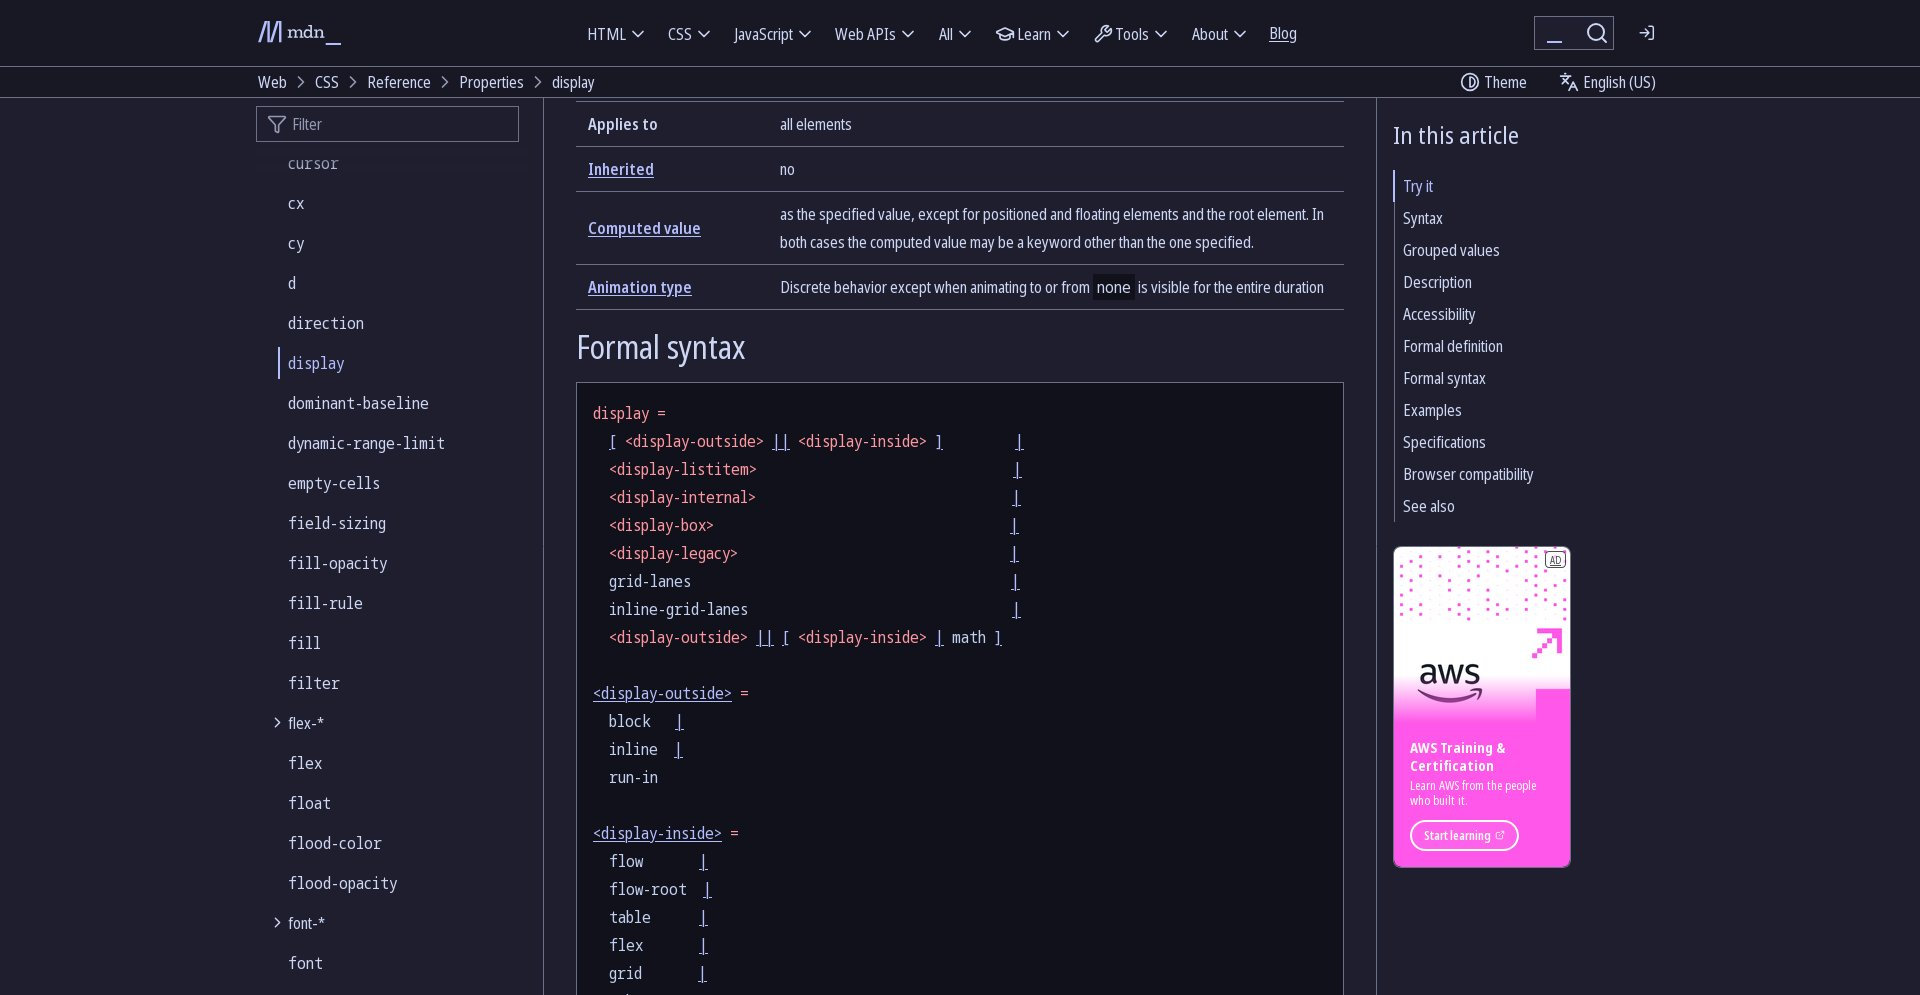
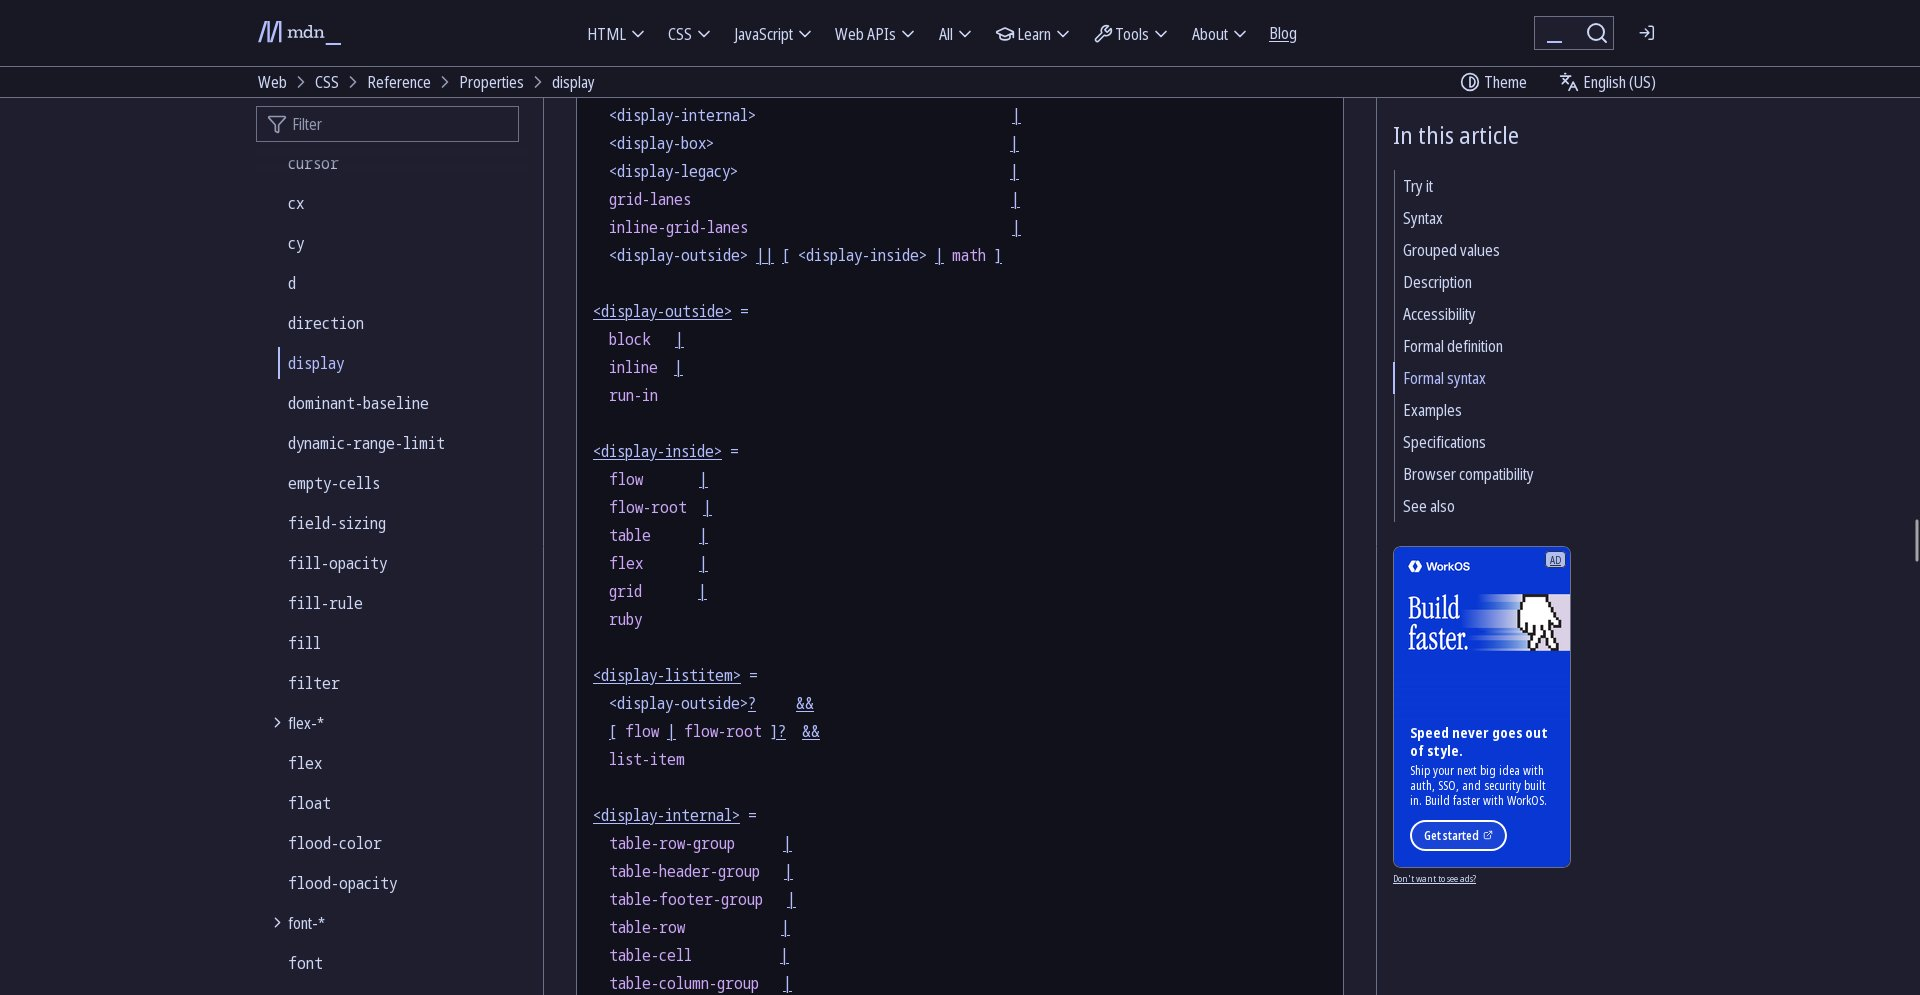
MDN: the theme's syntax colours inside code examples, via @shadow
A production-style revise task; the agent found @shadow through the
brief and recoloured CodeMirror's editors (in shadow roots), the static
examples and the formal syntax. Its notes, service.toml pages and
previews are updated; the run is in examples/DOGFOODING.md.

Claude-Session: https://claude.ai/code/session_01D67T8JeLKWqA31wwVHuFdE

Changed region(s): [[0.2812, 0.0935, 0.6875, 0.997], [0.7188, 0.5296, 0.8438, 0.8724]]

diff --git a/examples/owned/services/mdn/tiled/syntax.user.css b/examples/owned/services/mdn/tiled/syntax.user.css
@@ -1,0 +1,181 @@
+/* ==UserStyle==
+@name           MDN syntax colours (tiled)
+@namespace      atelier
+@version        0.1.0
+@description    Catppuccin Mocha syntax highlighting for MDN's code: static code examples, the formal syntax, and the editors in interactive examples
+==/UserStyle== */
+
+/* MDN highlights code two ways:
+
+   - Prism, for static code examples (<mdn-code-example>, open shadow root)
+     and the formal syntax (pre.css-formal-syntax, light DOM). Both use the
+     same .token.* rules, each colour light-dark(<light>, <dark>). The
+     --tl-syn-* tokens below keep that shape, so MDN's Light setting keeps
+     its colours; they're set on :root and inherit into the shadow roots.
+
+   - CodeMirror 6 with the One Dark theme, for the editors in interactive
+     examples (<mdn-play-editor>, nested in <interactive-example>'s shadow
+     root). One Dark is used whatever the colour scheme, so these are plain
+     Mocha colours. CodeMirror's classes are generated (ͼp, ͼq ...): each is
+     one of One Dark's colours, in the order its highlight style defines
+     them, so they're stable while MDN ships the same CodeMirror bundle. If
+     they shift, the editors show the wrong Mocha colours rather than One
+     Dark's; the editor's background and plain text (.cm-editor, .cm-content)
+     don't depend on them. */
+
+@-moz-document domain("developer.mozilla.org") {
+  html:root {
+    --tl-syn-comment: light-dark(#51565d, #9399b2);
+    --tl-syn-punctuation: light-dark(#51565d, #9399b2);
+    --tl-syn-keyword: light-dark(#0069c2, #cba6f7);
+    --tl-syn-atrule: light-dark(#007936, #cba6f7);
+    --tl-syn-string: light-dark(#007936, #a6e3a1);
+    --tl-syn-template-string: light-dark(#872bff, #a6e3a1);
+    --tl-syn-number: light-dark(#007936, #fab387);
+    --tl-syn-tag: light-dark(#007936, #89b4fa);
+    --tl-syn-attr-name: light-dark(#d30038, #f9e2af);
+    --tl-syn-property: light-dark(#d30038, #b4befe);
+    --tl-syn-function: light-dark(#d30038, #89b4fa);
+    --tl-syn-class-name: light-dark(#d30038, #f9e2af);
+    --tl-syn-builtin: light-dark(#872bff, #f38ba8);
+    --tl-syn-selector: light-dark(#872bff, #89b4fa);
+    --tl-syn-inserted: light-dark(#872bff, #a6e3a1);
+    --tl-syn-deleted: light-dark(#007936, #f38ba8);
+    /* Tokens MDN leaves in the text colour. */
+    --tl-syn-operator: light-dark(currentcolor, #89dceb);
+    --tl-syn-regex: light-dark(currentcolor, #f5c2e7);
+    --tl-syn-important: light-dark(currentcolor, #cba6f7);
+  }
+
+  /* ---- Prism, light DOM (the formal syntax, older pages) ------------- */
+
+  html :is(.code-example, .css-formal-syntax) {
+    & :is(.token.comment, .token.prolog, .token.doctype, .token.cdata) { color: var(--tl-syn-comment); }
+    & .token.punctuation { color: var(--tl-syn-punctuation); }
+    & .token.keyword { color: var(--tl-syn-keyword); }
+    & .token.atrule { color: var(--tl-syn-atrule); }
+    & :is(.token.string, .token.attr-value, .token.char, .token.url) { color: var(--tl-syn-string); }
+    & .token.template-string > .token.string { color: var(--tl-syn-template-string); }
+    & :is(.token.number, .token.boolean, .token.constant, .token.symbol) { color: var(--tl-syn-number); }
+    & .token.tag { color: var(--tl-syn-tag); }
+    & .token.attr-name { color: var(--tl-syn-attr-name); }
+    & .token.property { color: var(--tl-syn-property); }
+    & .token.function { color: var(--tl-syn-function); }
+    & .token.class-name { color: var(--tl-syn-class-name); }
+    & .token.builtin { color: var(--tl-syn-builtin); }
+    & .token.selector { color: var(--tl-syn-selector); }
+    & .token.inserted { color: var(--tl-syn-inserted); }
+    & .token.deleted { color: var(--tl-syn-deleted); }
+    & .token.operator { color: var(--tl-syn-operator); }
+    & .token.regex { color: var(--tl-syn-regex); }
+    & .token.important { color: var(--tl-syn-important); }
+  }
+
+  /* ---- Prism, static code examples ----------------------------------- */
+
+  /* :host raises these above MDN's :is(.code-example, ...) .token.x. */
+  @shadow mdn-code-example {
+    /* The pane's frame, square (MDN hard-codes 0.25rem). */
+    :host .code-example {
+      border-radius: 0;
+    }
+    :host .code-example {
+      & :is(.token.comment, .token.prolog, .token.doctype, .token.cdata) { color: var(--tl-syn-comment); }
+      & .token.punctuation { color: var(--tl-syn-punctuation); }
+      & .token.keyword { color: var(--tl-syn-keyword); }
+      & .token.atrule { color: var(--tl-syn-atrule); }
+      & :is(.token.string, .token.attr-value, .token.char, .token.url) { color: var(--tl-syn-string); }
+      & .token.template-string > .token.string { color: var(--tl-syn-template-string); }
+      & :is(.token.number, .token.boolean, .token.constant, .token.symbol) { color: var(--tl-syn-number); }
+      & .token.tag { color: var(--tl-syn-tag); }
+      & .token.attr-name { color: var(--tl-syn-attr-name); }
+      & .token.property { color: var(--tl-syn-property); }
+      & .token.function { color: var(--tl-syn-function); }
+      & .token.class-name { color: var(--tl-syn-class-name); }
+      & .token.builtin { color: var(--tl-syn-builtin); }
+      & .token.selector { color: var(--tl-syn-selector); }
+      & .token.inserted { color: var(--tl-syn-inserted); }
+      & .token.deleted { color: var(--tl-syn-deleted); }
+      & .token.operator { color: var(--tl-syn-operator); }
+      & .token.regex { color: var(--tl-syn-regex); }
+      & .token.important { color: var(--tl-syn-important); }
+    }
+  }
+
+  /* ---- CodeMirror, interactive example editors ----------------------- */
+
+  @shadow mdn-play-editor {
+    /* The editor is a crust pane like every other code block; plain text
+       in the text colour. */
+    :host .cm-editor {
+      color: #cdd6f4;
+      background-color: #11111b;
+    }
+    :host .cm-editor .cm-gutters {
+      color: #6c7086;
+      background-color: #11111b;
+    }
+    :host .cm-editor .cm-activeLineGutter {
+      background-color: #181825;
+    }
+    :host .cm-editor .cm-activeLine {
+      background-color: rgb(49 50 68 / 0.5);
+    }
+    :host .cm-editor .cm-cursor {
+      border-left-color: #f5e0dc;
+    }
+    :host .cm-editor .cm-scroller .cm-selectionLayer .cm-selectionBackground,
+    :host .cm-editor .cm-content ::selection {
+      background-color: #353749;
+    }
+    :host .cm-editor.cm-focused :is(.cm-matchingBracket, .cm-nonmatchingBracket) {
+      background-color: #45475a;
+    }
+    :host .cm-editor .cm-searchMatch {
+      background-color: rgb(249 226 175 / 0.28);
+      outline: none;
+    }
+    /* Autocomplete and hover tooltips: popovers, square, surface0 with a
+       surface1 border. */
+    :host .cm-editor .cm-tooltip {
+      color: #cdd6f4;
+      background-color: #313244;
+      border: 1px solid #45475a;
+      border-radius: 0;
+    }
+    :host .cm-editor .cm-tooltip-autocomplete > ul > li[aria-selected] {
+      color: #cdd6f4;
+      background-color: #45475a;
+    }
+
+    /* One Dark's highlight classes, each mapped by its role to Catppuccin
+       Mocha's. One Dark gives one colour to several roles, so these can't
+       be told apart further: */
+    /* keywords */
+    :host .ͼp { color: #cba6f7; }
+    /* names: properties, attributes, variables */
+    :host .ͼq { color: #b4befe; }
+    /* function names */
+    :host .ͼr { color: #89b4fa; }
+    /* colours, constants */
+    :host .ͼs { color: #fab387; }
+    /* definitions, separators */
+    :host .ͼt { color: #cdd6f4; }
+    /* types, classes, tag names, numbers */
+    :host .ͼu { color: #f9e2af; }
+    /* operators, escapes, regexps, URLs */
+    :host .ͼv { color: #89dceb; }
+    /* comments, meta */
+    :host .ͼw { color: #9399b2; }
+    /* links */
+    :host .ͼ10 { color: #9399b2; }
+    /* headings */
+    :host .ͼ11 { color: #f38ba8; }
+    /* atoms, booleans, keyword values */
+    :host .ͼ12 { color: #fab387; }
+    /* strings */
+    :host .ͼ13 { color: #a6e3a1; }
+    /* invalid */
+    :host .ͼ14 { color: #f38ba8; }
+  }
+}

diff --git a/examples/owned/services/mdn/tiled/content.user.css b/examples/owned/services/mdn/tiled/content.user.css
@@ -11,13 +11,14 @@
    they read are zeroed in tokens.user.css, and --color-background-secondary
    (crust) is their code background.
 
-   Not reachable at all (no tokens, no ::part()):
-   - the syntax colours inside <mdn-code-example> (MDN's own Prism palette,
-     hard-coded), and the 0.25rem corners of code examples and of the
-     compat table's frame;
-   - the CodeMirror editor in <interactive-example> (One Dark);
-   - everything inside live-sample and interactive-example iframes, which are
-     separate documents on <hash>.mdnplay.dev. */
+   Syntax colours (Prism in code examples and the formal syntax, CodeMirror
+   in interactive examples) and the code examples' frame are restyled
+   inside their shadow roots with @shadow, in syntax.user.css.
+
+   Still left as MDN draws them: the 0.25rem corners of the compat table's
+   frame (reachable now with @shadow, not yet done); everything inside
+   live-sample and interactive-example iframes, which are separate
+   documents on <hash>.mdnplay.dev. */
 
 @-moz-document domain("developer.mozilla.org") {
   /* ---- Code -------------------------------------------------------- */

diff --git a/examples/owned/services/mdn/notes.md b/examples/owned/services/mdn/notes.md
@@ -27,12 +27,26 @@
 - Radius tokens: `--radius-normal` (0.25rem) and `--radius-full` (pill) are
   read by the search button and sidebar filter; `--elem-radius` by
   `interactive-example`; `--border-radius` by the sidebar ad. Hard-coded
-  and unreachable: code examples and compat table frame (0.25rem), search
+  in shadow roots (token-proof, but `@shadow` reaches them): code examples
+  and compat table frame (0.25rem), search
   dialog (0.5rem), the /search page's field (2rem), `mdn-button` (0.25rem).
 - Syntax colours inside `mdn-code-example` are MDN's own Prism palette,
-  hard-coded in the shadow root. The formal syntax block
-  (`pre.css-formal-syntax`) is light DOM and uses the same palette through
-  `.token.*` rules in the global sheet.
+  hard-coded in the shadow root as `:is(.code-example, .css-formal-syntax)
+  .token.*` (light-dark() pairs); reach them with `@shadow
+  mdn-code-example`. The formal syntax block (`pre.css-formal-syntax`) is
+  light DOM and uses the same rules from the global sheet.
+- Interactive example editors are CodeMirror 6 (`mdn-play-editor`, nested
+  in `interactive-example`'s shadow root; `@shadow mdn-play-editor` reaches
+  it) with the One Dark theme, in dark and light mode alike (`.cm-editor`
+  carries `ͼo`). Highlighting uses generated classes, one per One Dark
+  colour, in the order One Dark's highlight style lists them: ͼp keyword,
+  ͼq names/properties/attributes/variables, ͼr functions, ͼs
+  colours/constants, ͼt definitions/punctuation, ͼu types/tags/numbers, ͼv
+  operators/regexps/URLs, ͼw comments, ͼ10 links, ͼ11 headings, ͼ12
+  atoms/booleans, ͼ13 strings, ͼ14 invalid (checked 2026-10 on CSS, JS and
+  HTML pages). They'd shift if MDN's CodeMirror bundle changes. Minimal
+  CSS choice editors parse `display: block;` as a selector, so both words
+  are ͼu. The console (`mdn-play-console`) is plain text.
 - Interactive examples and live samples render in iframes on
   `<hash>.mdnplay.dev`: separate documents, out of reach.
 - The current item in the left sidebar is `li > em > a[aria-current=page]`
@@ -53,15 +67,23 @@
 
 - Files: `tokens` (MDN tokens plus this style's own `--tl-*` role tokens,
   each a light-dark() pair), `chrome` (header, menus, popovers, sidebars,
-  footer, focus), `content` (article bodies), `home`.
+  footer, focus), `content` (article bodies), `syntax` (syntax colours in
+  every kind of code block), `home`.
 - Panes: the header (nav and breadcrumbs) is one mantle strip; the left
   sidebar and TOC are split from the article by 1px muted rules on their
   inner edges (they're sticky and viewport-high, so the rules run the
   window's height). The footer is a mantle pane.
 - Code is crust (`--color-background-secondary`, which components read as
-  their code background). Inline code is crust too, square. Syntax colours
-  stay MDN's, since the code examples' can't be reached and the formal
-  syntax is kept matching them.
+  their code background). Inline code is crust too, square.
+- Syntax colours (`syntax`): Catppuccin Mocha everywhere. Prism (code
+  examples, formal syntax) through `--tl-syn-*` tokens with MDN's light
+  colours in the light arm, mapped token by token to Catppuccin's standard
+  roles (tags blue, attributes yellow, properties lavender, keywords mauve,
+  strings green, numbers peach, punctuation and comments overlay2). The
+  CodeMirror editors map each One Dark colour to its Mocha role; One Dark
+  lumps roles together, so there HTML tags are yellow (with types and
+  numbers) and attributes lavender (with properties and variables), unlike
+  Prism. Editor background crust, like other code.
 - Semantic tints (`--color-background-red/green/blue/...`) are the page
   colour in dark mode: notecards, good/bad examples and menu tabs show their
   kind by edge or text colour. Yellow keeps a tint, as it marks search
@@ -81,5 +103,7 @@
   monospace fg-dim; "Get involved" is the one lavender-filled button.
 - Lists where every title is a link (search dialog, /search results) use the
   text colour, dimmed once visited.
-- Not reached: hard-coded radii above; the Copy/Reset/Yes/No buttons
-  (`mdn-button`) keep MDN's fills and 0.25rem corners; iframe contents.
+- Not yet done: hard-coded radii above (other than code examples', now
+  square) and the Copy/Reset/Yes/No buttons (`mdn-button`), which keep
+  MDN's fills and 0.25rem corners. All are in open shadow roots, so
+  `@shadow` can reach them now. Iframe contents are out of reach.

diff --git a/examples/DOGFOODING.md b/examples/DOGFOODING.md
@@ -467,3 +467,20 @@ exercising the system. Reworded so Catppuccin syntax colours are the rule
 and the fallback applies only to code that truly can't be reached; and
 `theme_propose` and the brief now say THEME.md is what the user wants, with
 limits going to notes, summaries and feedback instead.
+
+## @shadow in production use: MDN's code examples (2026-10-07)
+
+A revise task in the user's words ("The interactive code examples on MDN
+pages still use MDN's own syntax colours, not the theme's"), with no mention
+of `@shadow`. The agent found it from the brief alone and recoloured all
+three kinds of MDN code (CodeMirror editors in shadow roots, static examples,
+formal syntax) in about 5 minutes, added the pages it checked to
+`[[pages]]`, and left other newly reachable parts (the compat table's frame,
+MDN's buttons) alone as outside the request.
+
+Its main point: MDN's notes and CSS comments, written before `@shadow`,
+still called these components unreachable, which could have led it to
+decline. Limits recorded in notes outlive their fixes just as limits in
+THEME.md do. Also: `screenshot` failed on a hidden first match;
+`contrast_scan` doesn't look inside shadow roots; a per-tab light/dark
+preview would help (spike R2's emulation).
